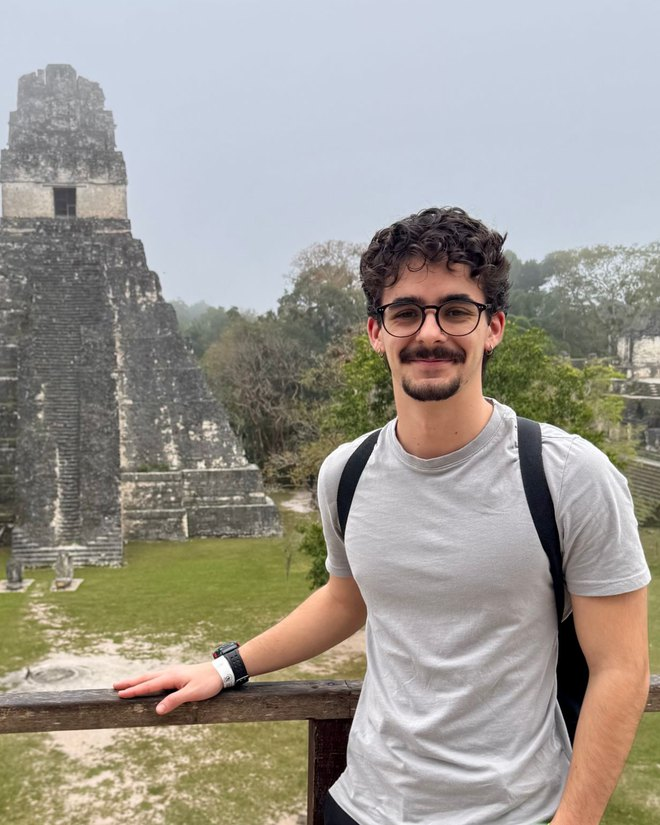
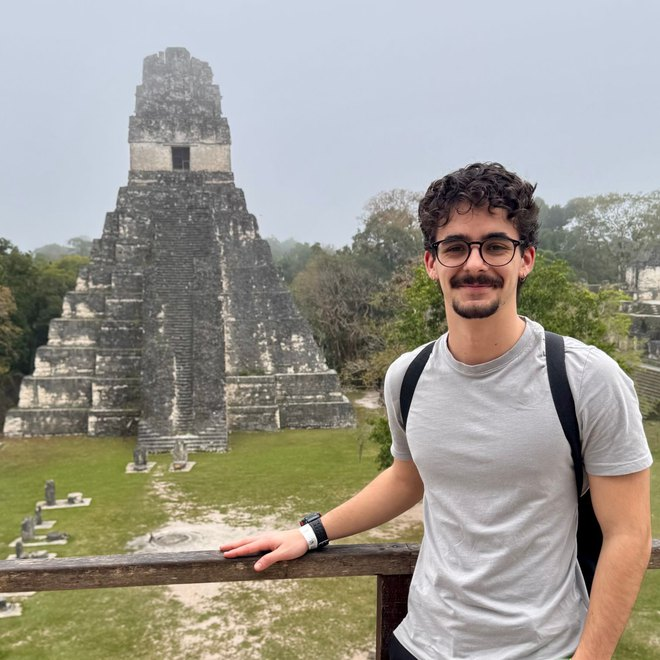
Switch the home page photo to a square crop
Show the whole Temple I behind me: a 660x660 crop (no metadata),
displayed at 280px on desktop, 220px on tablets and up to 300px on
phones.

diff --git a/assets/styles.css b/assets/styles.css
@@ -106,7 +106,7 @@ main {
 
 .hero {
   display: grid;
-  grid-template-columns: minmax(0, 1fr) 220px;
+  grid-template-columns: minmax(0, 1fr) 280px;
   gap: clamp(28px, 5vw, 56px);
   align-items: start;
   padding: 62px 0 54px;
@@ -181,7 +181,7 @@ h3 {
 .portrait img {
   display: block;
   width: 100%;
-  aspect-ratio: 4 / 5;
+  aspect-ratio: 1 / 1;
   object-fit: cover;
   border: 1px solid var(--line);
   border-radius: 4px;
@@ -414,7 +414,7 @@ h3 {
 
 @media (max-width: 920px) {
   .hero {
-    grid-template-columns: minmax(0, 1fr) 170px;
+    grid-template-columns: minmax(0, 1fr) 220px;
   }
 
   .contact-grid {
@@ -440,7 +440,7 @@ h3 {
   }
 
   .portrait {
-    max-width: 230px;
+    max-width: 300px;
     order: -1;
   }
 

diff --git a/README.md b/README.md
@@ -16,7 +16,7 @@ The CV link in the top bar opens `assets/cv.pdf` directly. Styles shared by all 
 ## Editing
 
 - **Research:** each paper is one `<li>` in `research.html`, newest first. To add one, copy an existing `<li>` and change the title, coauthors, citation and the arXiv link. For a preprint, write "Preprint, <year>." in place of the citation.
-- **Photo:** the home page shows `assets/headshot.jpg`, a 660×825 (4:5) crop. To change it, replace that file with another 4:5 image under the same name.
+- **Photo:** the home page shows `assets/headshot.jpg`, a 660×660 square crop. To change it, replace that file with another square image under the same name.
 - **CV:** save the PDF as `assets/cv.pdf`. To update it, replace that file with the new version under the same name.
 - **Teaching:** courses are grouped by school and role, e.g. "University of Chicago — Teaching Assistant". For a new role, such as instructor of record, copy a whole `<section class="subsection">` block in `teaching.html`, give its `<h2>` a new `id` (and match it in `aria-labelledby`), change the role in the heading, and list the courses. For courses you teach yourself, drop the "Instructor:" line.
 - **Outreach:** `outreach.html` lists outreach activities in the same format as Teaching. Each activity is one `<li>`: the activity, your role, and optionally the term on the right. Sub-bullets go in the `<ul class="entry-sublist">` inside an activity, one `<li>` each with a short `entry-note` and, optionally, a term (e.g. one per Directed Reading Program quarter, newest first).
